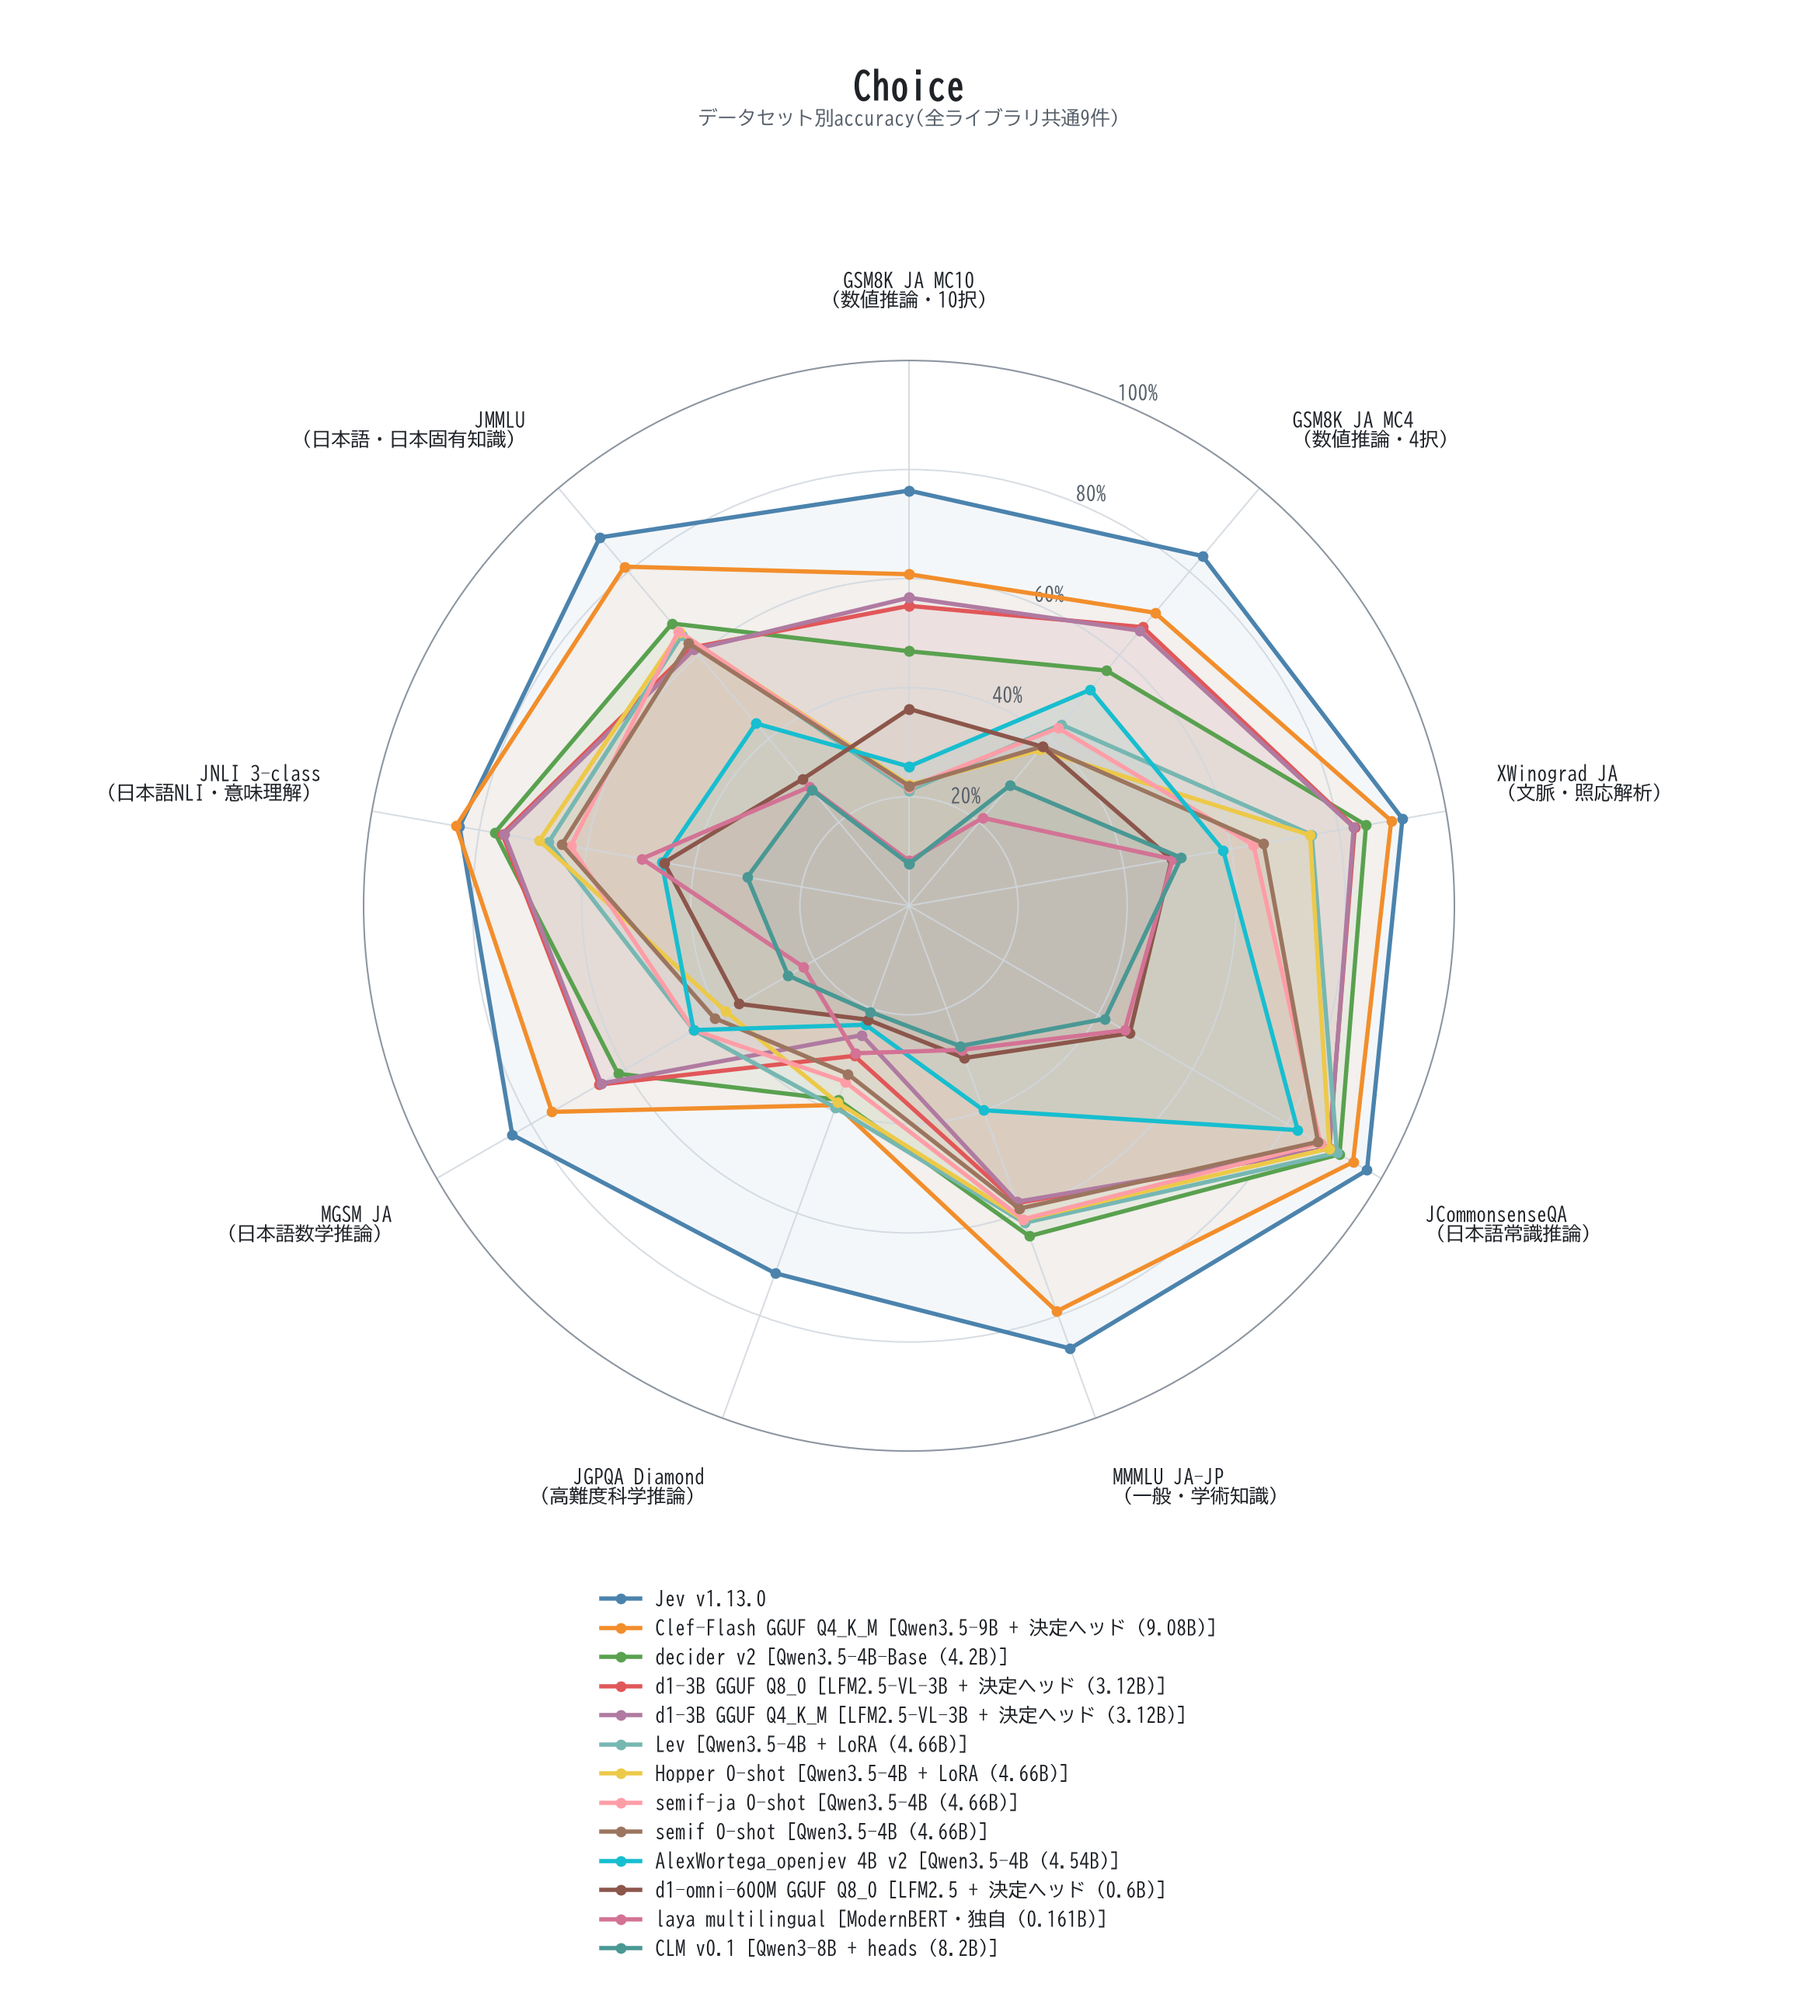
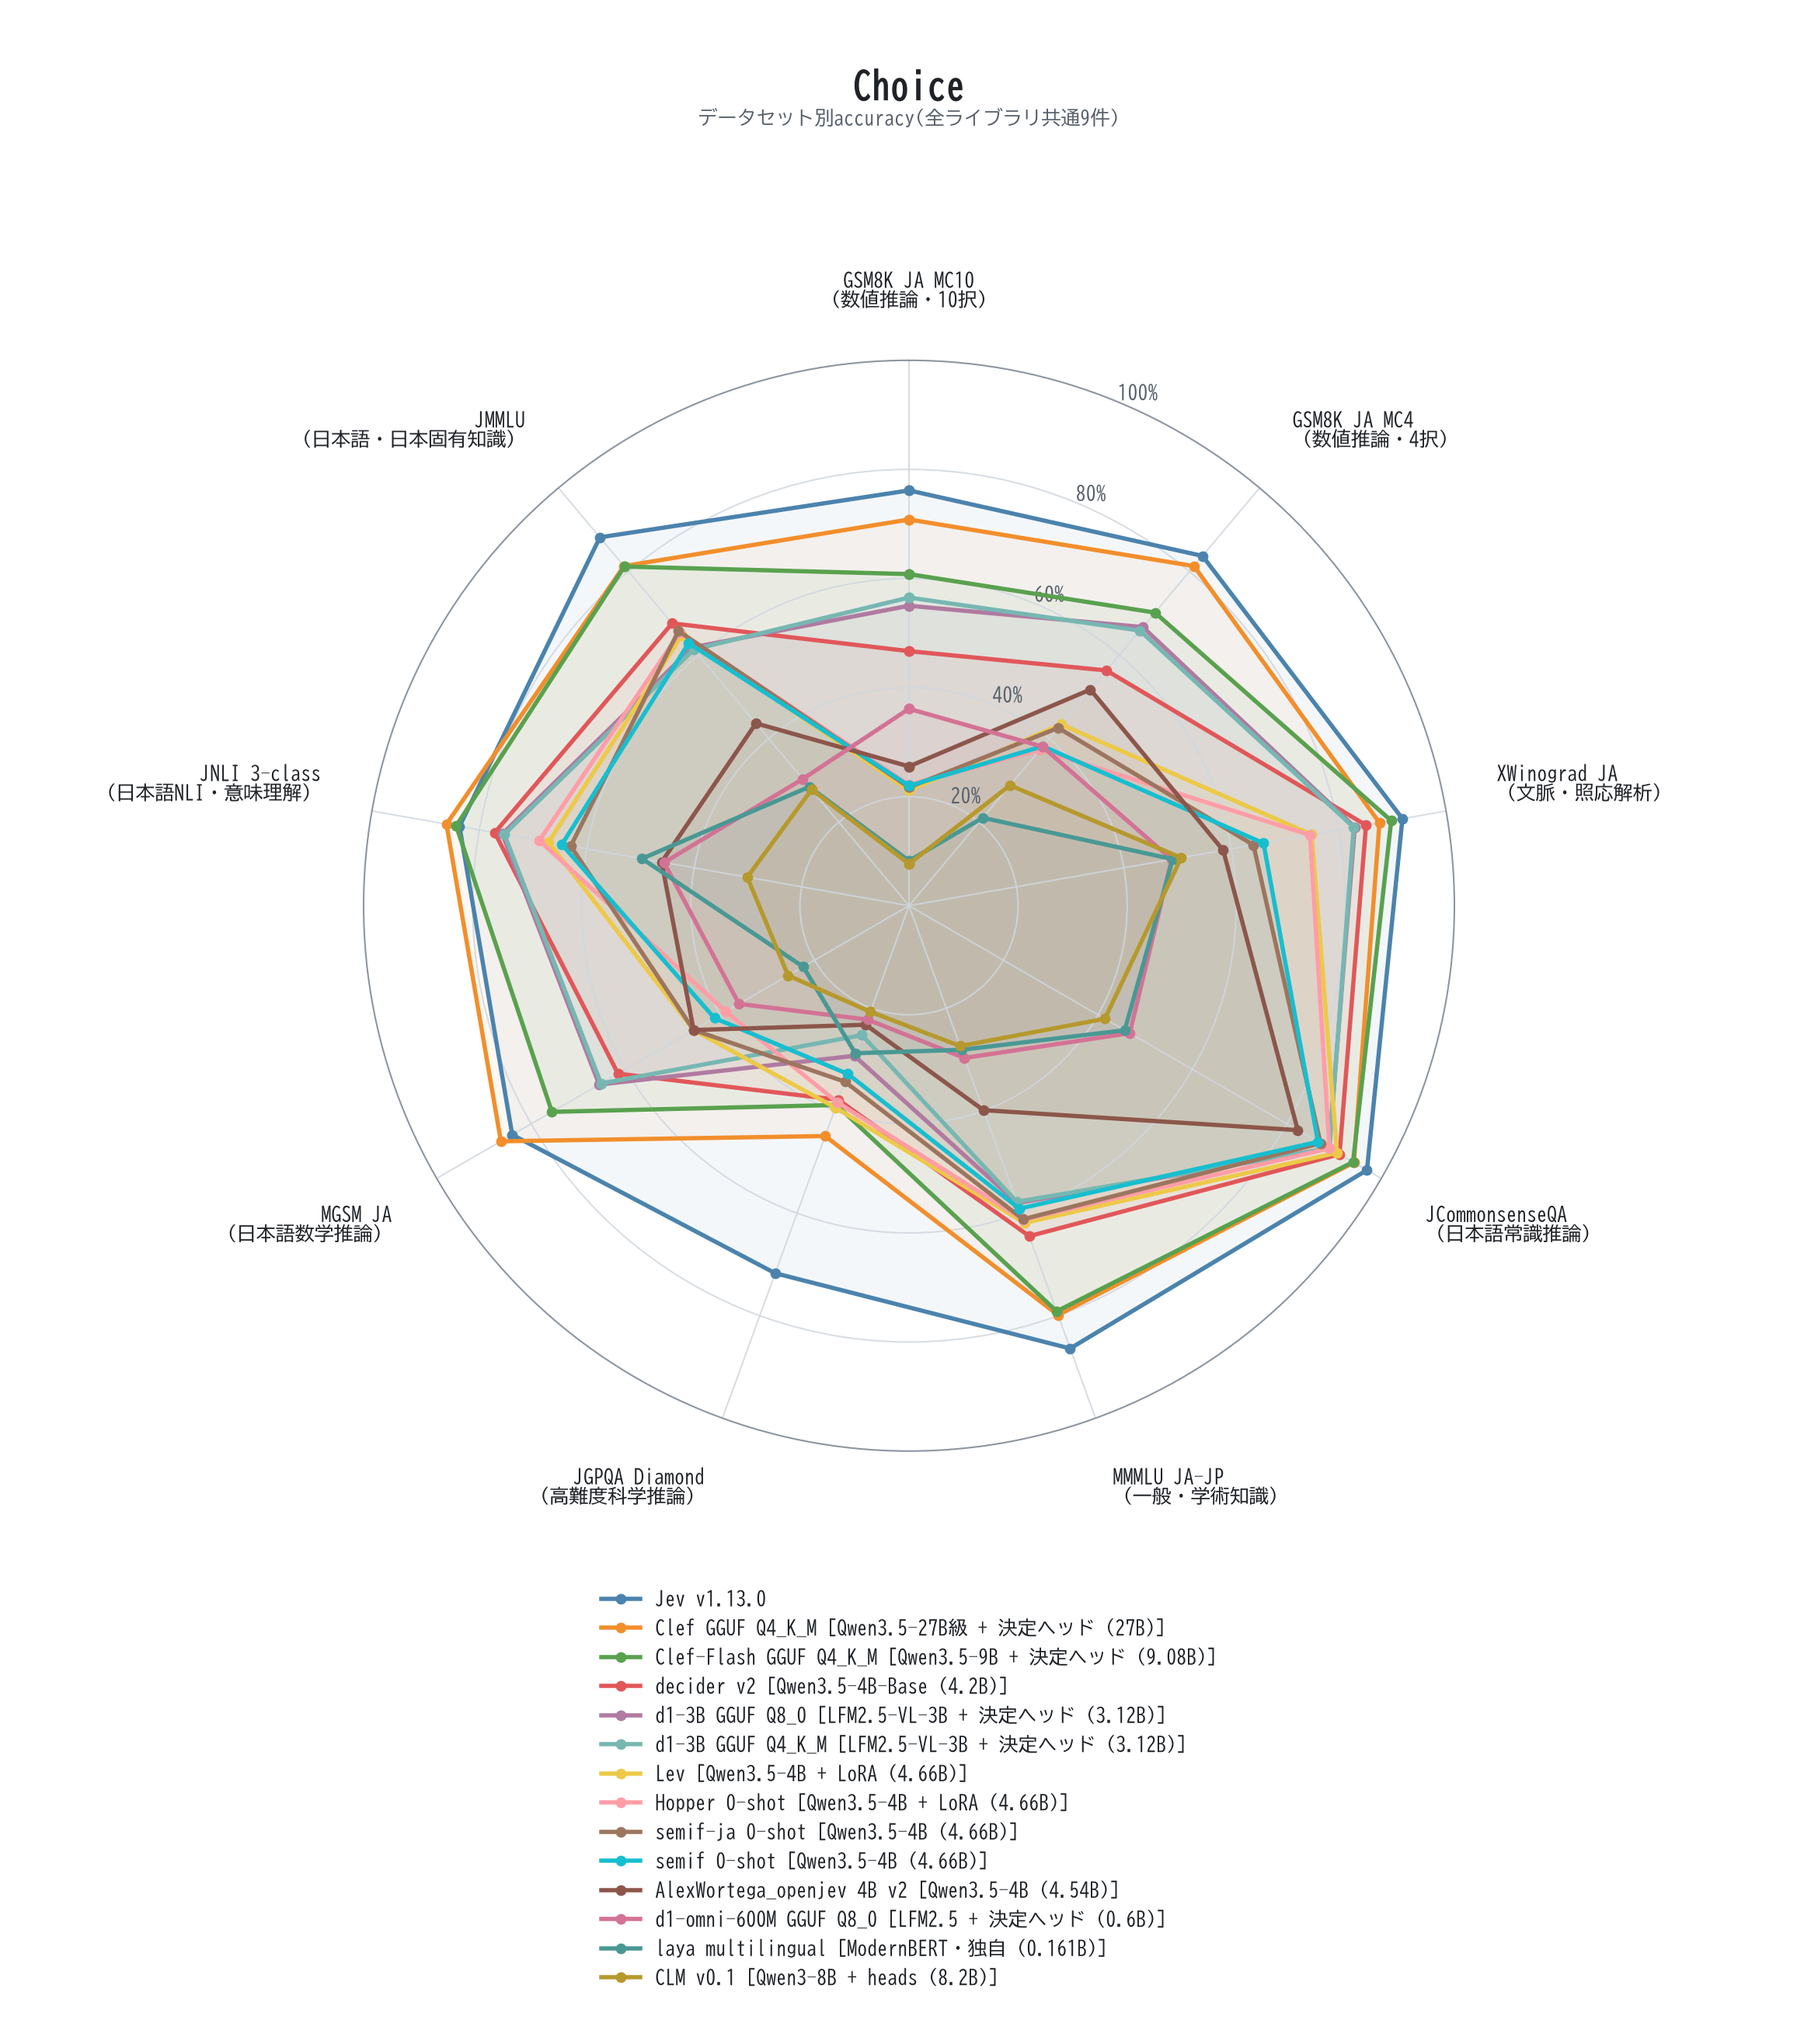
Clef(大)GGUF Q4_K_Mを比較表・チャートに追加
Cloudflare/clef(約27B、ggml-org GGUF Q4_K_M、19.2GB)を35データセットで評価し、
Overall 0.761(Noul 0.708/Choice 0.792/Score 0.783)でJevに次ぐ2位。GPUに全層が載らず
-ngl 54で一部をCPUに回すため推論は約685ms/件(Clef-Flashの約11倍)。ランキング・
推論時間・レーダーのチャートとREADMEを更新し、行数が増えた図は高さを調整。

diff --git a/scripts/build_final_charts.py b/scripts/build_final_charts.py
@@ -103,6 +103,16 @@ GROUPS = [
         "score": "clef-flash-gguf-q4km-score", "params_b": 9.08, "latency_ms": 62.16,
     },
     {
+        # Cloudflare/clef (the large sibling of clef-flash), ggml-org's GGUF at Q4_K_M. 19.2GB, so
+        # only part of the layers fit the 16GB GPU (-ngl 54): the latency is the item-weighted mean
+        # over all 75,384 items (HelpSteer2 long texts alone take ~2.5s). Parameter count is
+        # estimated from the BF16 GGUF size (54.06GB at 2 bytes/param ~= 27B).
+        "method": "Clef(GGUF Q4_K_M)",
+        "label_top": "Clef GGUF Q4_K_M", "label_bottom": "Qwen3.5-27B級 + 決定ヘッド (27B)",
+        "noul": "clef-large-gguf-q4km-noul", "choice": "clef-large-gguf-q4km-choice",
+        "score": "clef-large-gguf-q4km-score", "params_b": 27.0, "latency_ms": 684.79,
+    },
+    {
         # LiquidAI/d1-3B (decision model on LFM2.5-VL-3B), Liquid AI's GGUF export run by
         # llama.cpp's llama-server /v1/systemone. Standard 35-dataset profile (item-weighted latency).
         "method": "d1-3B(GGUF Q8_0)",
@@ -281,7 +291,7 @@ def build_ranking_chart(rows: list[dict]) -> None:
     colors = [highlight if i == len(rows) - 1 else bar_color for i in range(len(rows))]
     y_pos = list(range(len(rows)))
 
-    fig, ax = plt.subplots(figsize=(13, 8))
+    fig, ax = plt.subplots(figsize=(13, max(8, 0.65 * len(rows))))  # two-line labels need ~0.65in/row
     fig.patch.set_facecolor(FIG_BG)
     ax.set_facecolor(PLOT_BG)
     bars = ax.barh(y_pos, overall, color=colors, height=0.6)
@@ -348,7 +358,7 @@ def build_scatter_and_latency_charts(rows: list[dict]) -> None:
     rows_sorted = sorted(rows, key=lambda r: r["latency_ms"])
     latencies = [r["latency_ms"] for r in rows_sorted]
     y_pos = list(range(len(rows_sorted)))
-    fig, ax = plt.subplots(figsize=(13, 8))
+    fig, ax = plt.subplots(figsize=(13, max(8, 0.65 * len(rows_sorted))))
     fig.patch.set_facecolor(FIG_BG)
     ax.set_facecolor(PLOT_BG)
     bars = ax.barh(y_pos, latencies, color="#e15759", height=0.6)

diff --git a/scripts/build_eval_summary.py b/scripts/build_eval_summary.py
@@ -33,6 +33,7 @@ RUNS: list[tuple[str, list[str] | None]] = [
     ("eval-d1-3b-gguf-q8-series", None),
     ("eval-d1-3b-gguf-q4km-series", None),
     ("eval-d1-omni-600m-gguf-q8-series", None),
+    ("eval-clef-large-gguf-q4km-series", None),
     ("eval-primitives-20260918", ["qwen3.5-4b"]),  # pre-existing next_token_logit baseline
 ]
 
